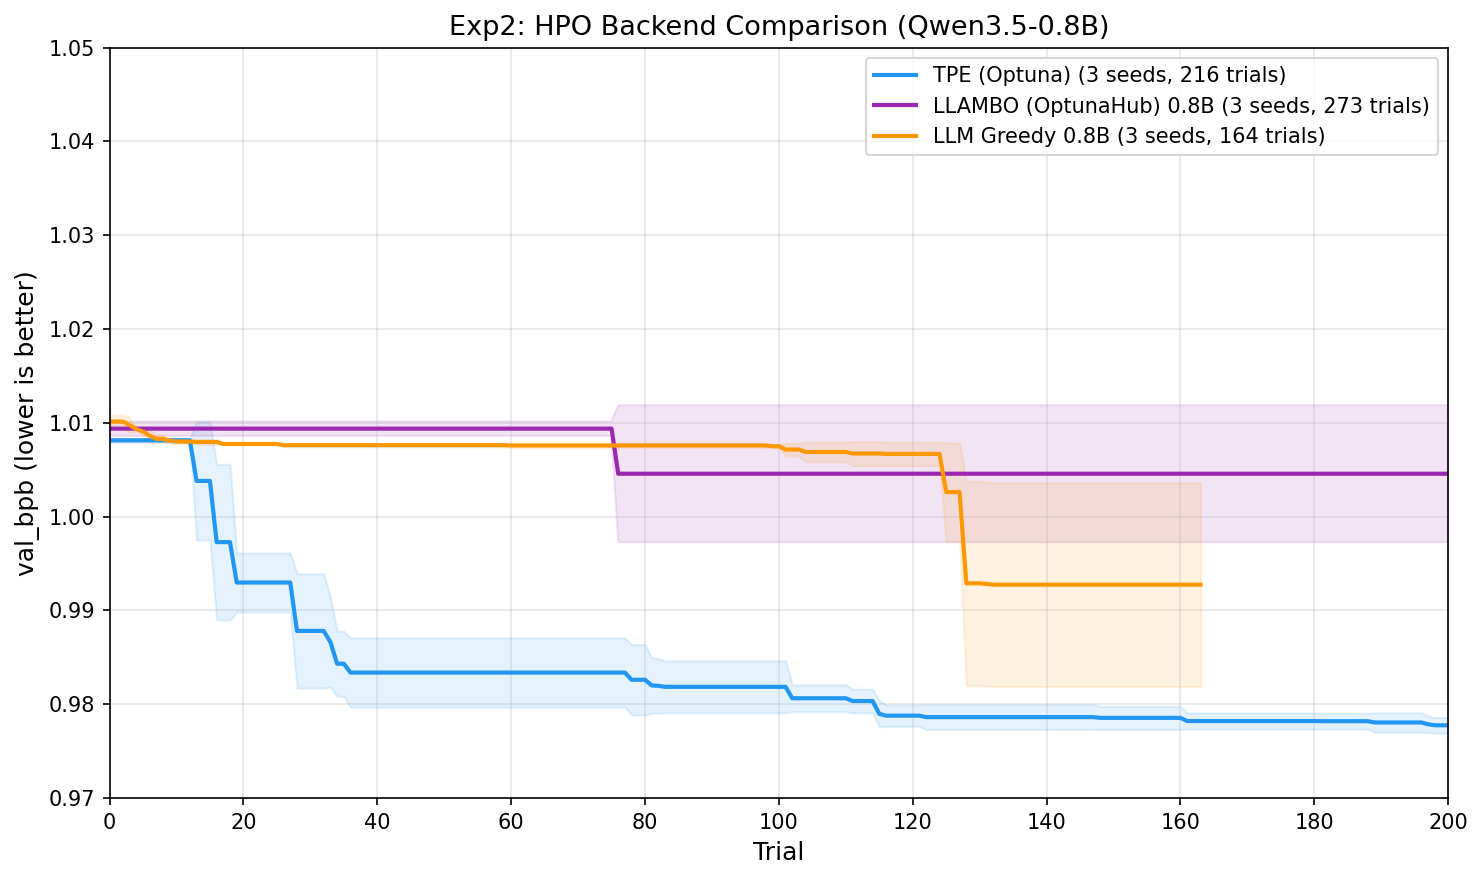
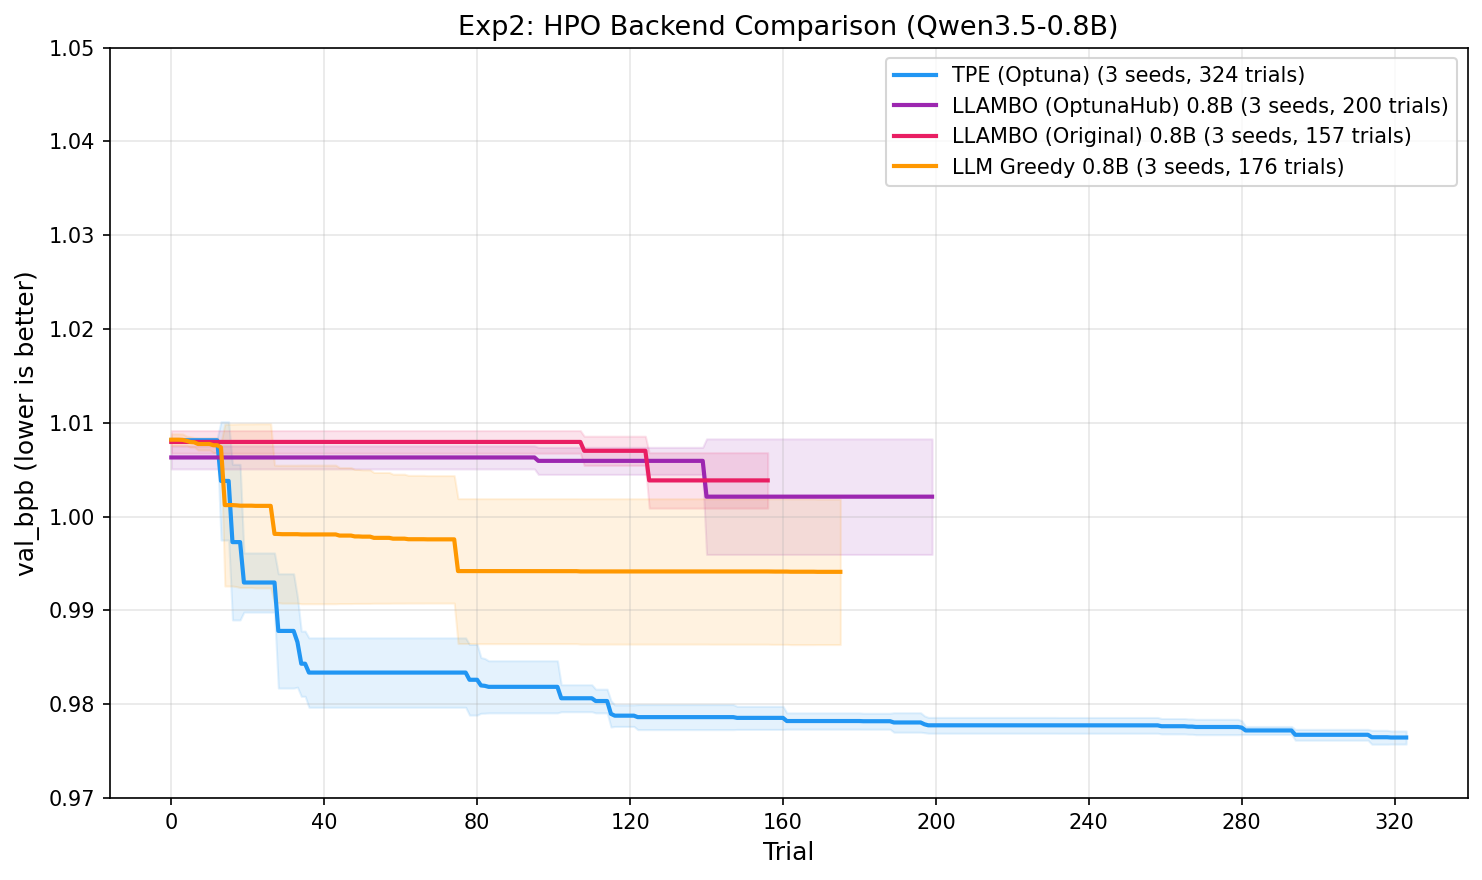
Update convergence plots with all backends, add combined plot
- Added LLAMBO (Original) 0.8B and 27B to per-model plots
- New exp2_all_convergence.png with all 7 backends on one plot
- Removed outdated 27B-think plot (thinking disabled for all)

diff --git a/scripts/plot_convergence.py b/scripts/plot_convergence.py
@@ -87,10 +87,11 @@ def plot_convergence_multi(
 
 
 def plot_exp2_0_8b(results_dir: Path, output_path: Path):
-    """Exp2: 0.8B model — TPE vs LLAMBO (OptunaHub) vs LLM Greedy."""
+    """Exp2: 0.8B model — all backends."""
     backends = {
         "optuna": {"label": "TPE (Optuna)", "color": "#2196F3"},
         "llambo": {"label": "LLAMBO (OptunaHub) 0.8B", "color": "#9C27B0"},
+        "llambo_original": {"label": "LLAMBO (Original) 0.8B", "color": "#E91E63"},
         "llm_greedy": {"label": "LLM Greedy 0.8B", "color": "#FF9800"},
     }
     plot_convergence_multi(
@@ -99,25 +100,6 @@ def plot_exp2_0_8b(results_dir: Path, output_path: Path):
         output_path,
         title="Exp2: HPO Backend Comparison (Qwen3.5-0.8B)",
         ylim=(0.97, 1.05),
-        xlim=(0, 200),
-    )
-
-
-def plot_exp2_27b_think(results_dir: Path, output_path: Path):
-    """Exp2: 27B thinking — all backends."""
-    backends = {
-        "optuna": {"label": "TPE (Optuna)", "color": "#2196F3"},
-        "llm_greedy_Qwen3_5_27B": {"label": "LLM Greedy 27B think", "color": "#FF9800"},
-        "llambo_Qwen3_5_27B": {"label": "LLAMBO (OptunaHub) 27B think", "color": "#9C27B0"},
-        "llambo_original_Qwen3_5_27B": {"label": "LLAMBO (Original) 27B think", "color": "#E91E63"},
-    }
-    plot_convergence_multi(
-        results_dir / "exp2_benchmark",
-        backends,
-        output_path,
-        title="Exp2: HPO Backend Comparison (Qwen3.5-27B, thinking ON)",
-        ylim=(0.97, 1.05),
-        xlim=(0, 200),
     )
 
 
@@ -125,37 +107,36 @@ def plot_exp2_27b_nothink(results_dir: Path, output_path: Path):
     """Exp2: 27B no thinking — all backends."""
     backends = {
         "optuna": {"label": "TPE (Optuna)", "color": "#2196F3"},
-        "llm_greedy_Qwen3_5_27B_nothink": {"label": "LLM Greedy 27B nothink", "color": "#FF9800"},
-        "llambo_Qwen3_5_27B_nothink": {"label": "LLAMBO (OptunaHub) 27B nothink", "color": "#9C27B0"},
-        "llambo_original_Qwen3_5_27B_nothink": {"label": "LLAMBO (Original) 27B nothink", "color": "#E91E63"},
+        "llm_greedy_Qwen3_5_27B_nothink": {"label": "LLM Greedy 27B", "color": "#FF9800"},
+        "llambo_Qwen3_5_27B_nothink": {"label": "LLAMBO (OptunaHub) 27B", "color": "#9C27B0"},
+        "llambo_original_Qwen3_5_27B_nothink": {"label": "LLAMBO (Original) 27B", "color": "#E91E63"},
     }
     plot_convergence_multi(
         results_dir / "exp2_benchmark",
         backends,
         output_path,
-        title="Exp2: HPO Backend Comparison (Qwen3.5-27B, thinking OFF)",
+        title="Exp2: HPO Backend Comparison (Qwen3.5-27B)",
         ylim=(0.97, 1.05),
-        xlim=(0, 200),
     )
 
 
-def plot_exp2_model_comparison(results_dir: Path, output_path: Path):
-    """Compare 0.8B vs 27B (think vs nothink) for each LLM backend."""
+def plot_exp2_all(results_dir: Path, output_path: Path):
+    """All backends on one plot."""
     backends = {
+        "optuna": {"label": "TPE (Optuna)", "color": "#2196F3", "linestyle": "-"},
         "llm_greedy": {"label": "LLM Greedy 0.8B", "color": "#FF9800", "linestyle": "-"},
-        "llm_greedy_Qwen3_5_27B": {"label": "LLM Greedy 27B think", "color": "#FF9800", "linestyle": "--"},
-        "llm_greedy_Qwen3_5_27B_nothink": {"label": "LLM Greedy 27B nothink", "color": "#FF9800", "linestyle": ":"},
+        "llm_greedy_Qwen3_5_27B_nothink": {"label": "LLM Greedy 27B", "color": "#FF9800", "linestyle": "--"},
         "llambo": {"label": "LLAMBO (OH) 0.8B", "color": "#9C27B0", "linestyle": "-"},
-        "llambo_Qwen3_5_27B": {"label": "LLAMBO (OH) 27B think", "color": "#9C27B0", "linestyle": "--"},
-        "llambo_Qwen3_5_27B_nothink": {"label": "LLAMBO (OH) 27B nothink", "color": "#9C27B0", "linestyle": ":"},
+        "llambo_Qwen3_5_27B_nothink": {"label": "LLAMBO (OH) 27B", "color": "#9C27B0", "linestyle": "--"},
+        "llambo_original": {"label": "LLAMBO (Orig) 0.8B", "color": "#E91E63", "linestyle": "-"},
+        "llambo_original_Qwen3_5_27B_nothink": {"label": "LLAMBO (Orig) 27B", "color": "#E91E63", "linestyle": "--"},
     }
     plot_convergence_multi(
         results_dir / "exp2_benchmark",
         backends,
         output_path,
-        title="Exp2: Model Size Comparison (0.8B vs 27B)",
+        title="Exp2: All Backends Comparison",
         ylim=(0.97, 1.05),
-        xlim=(0, 200),
     )
 
 
@@ -255,7 +236,6 @@ if __name__ == "__main__":
     assets_dir.mkdir(exist_ok=True)
 
     plot_exp2_0_8b(results_dir, assets_dir / "exp2_0.8b_convergence.png")
-    plot_exp2_27b_think(results_dir, assets_dir / "exp2_27b_think_convergence.png")
     plot_exp2_27b_nothink(results_dir, assets_dir / "exp2_27b_nothink_convergence.png")
-    plot_exp2_model_comparison(results_dir, assets_dir / "exp2_model_comparison.png")
+    plot_exp2_all(results_dir, assets_dir / "exp2_all_convergence.png")
     plot_progress(results_dir, assets_dir / "exp2_progress.png")
